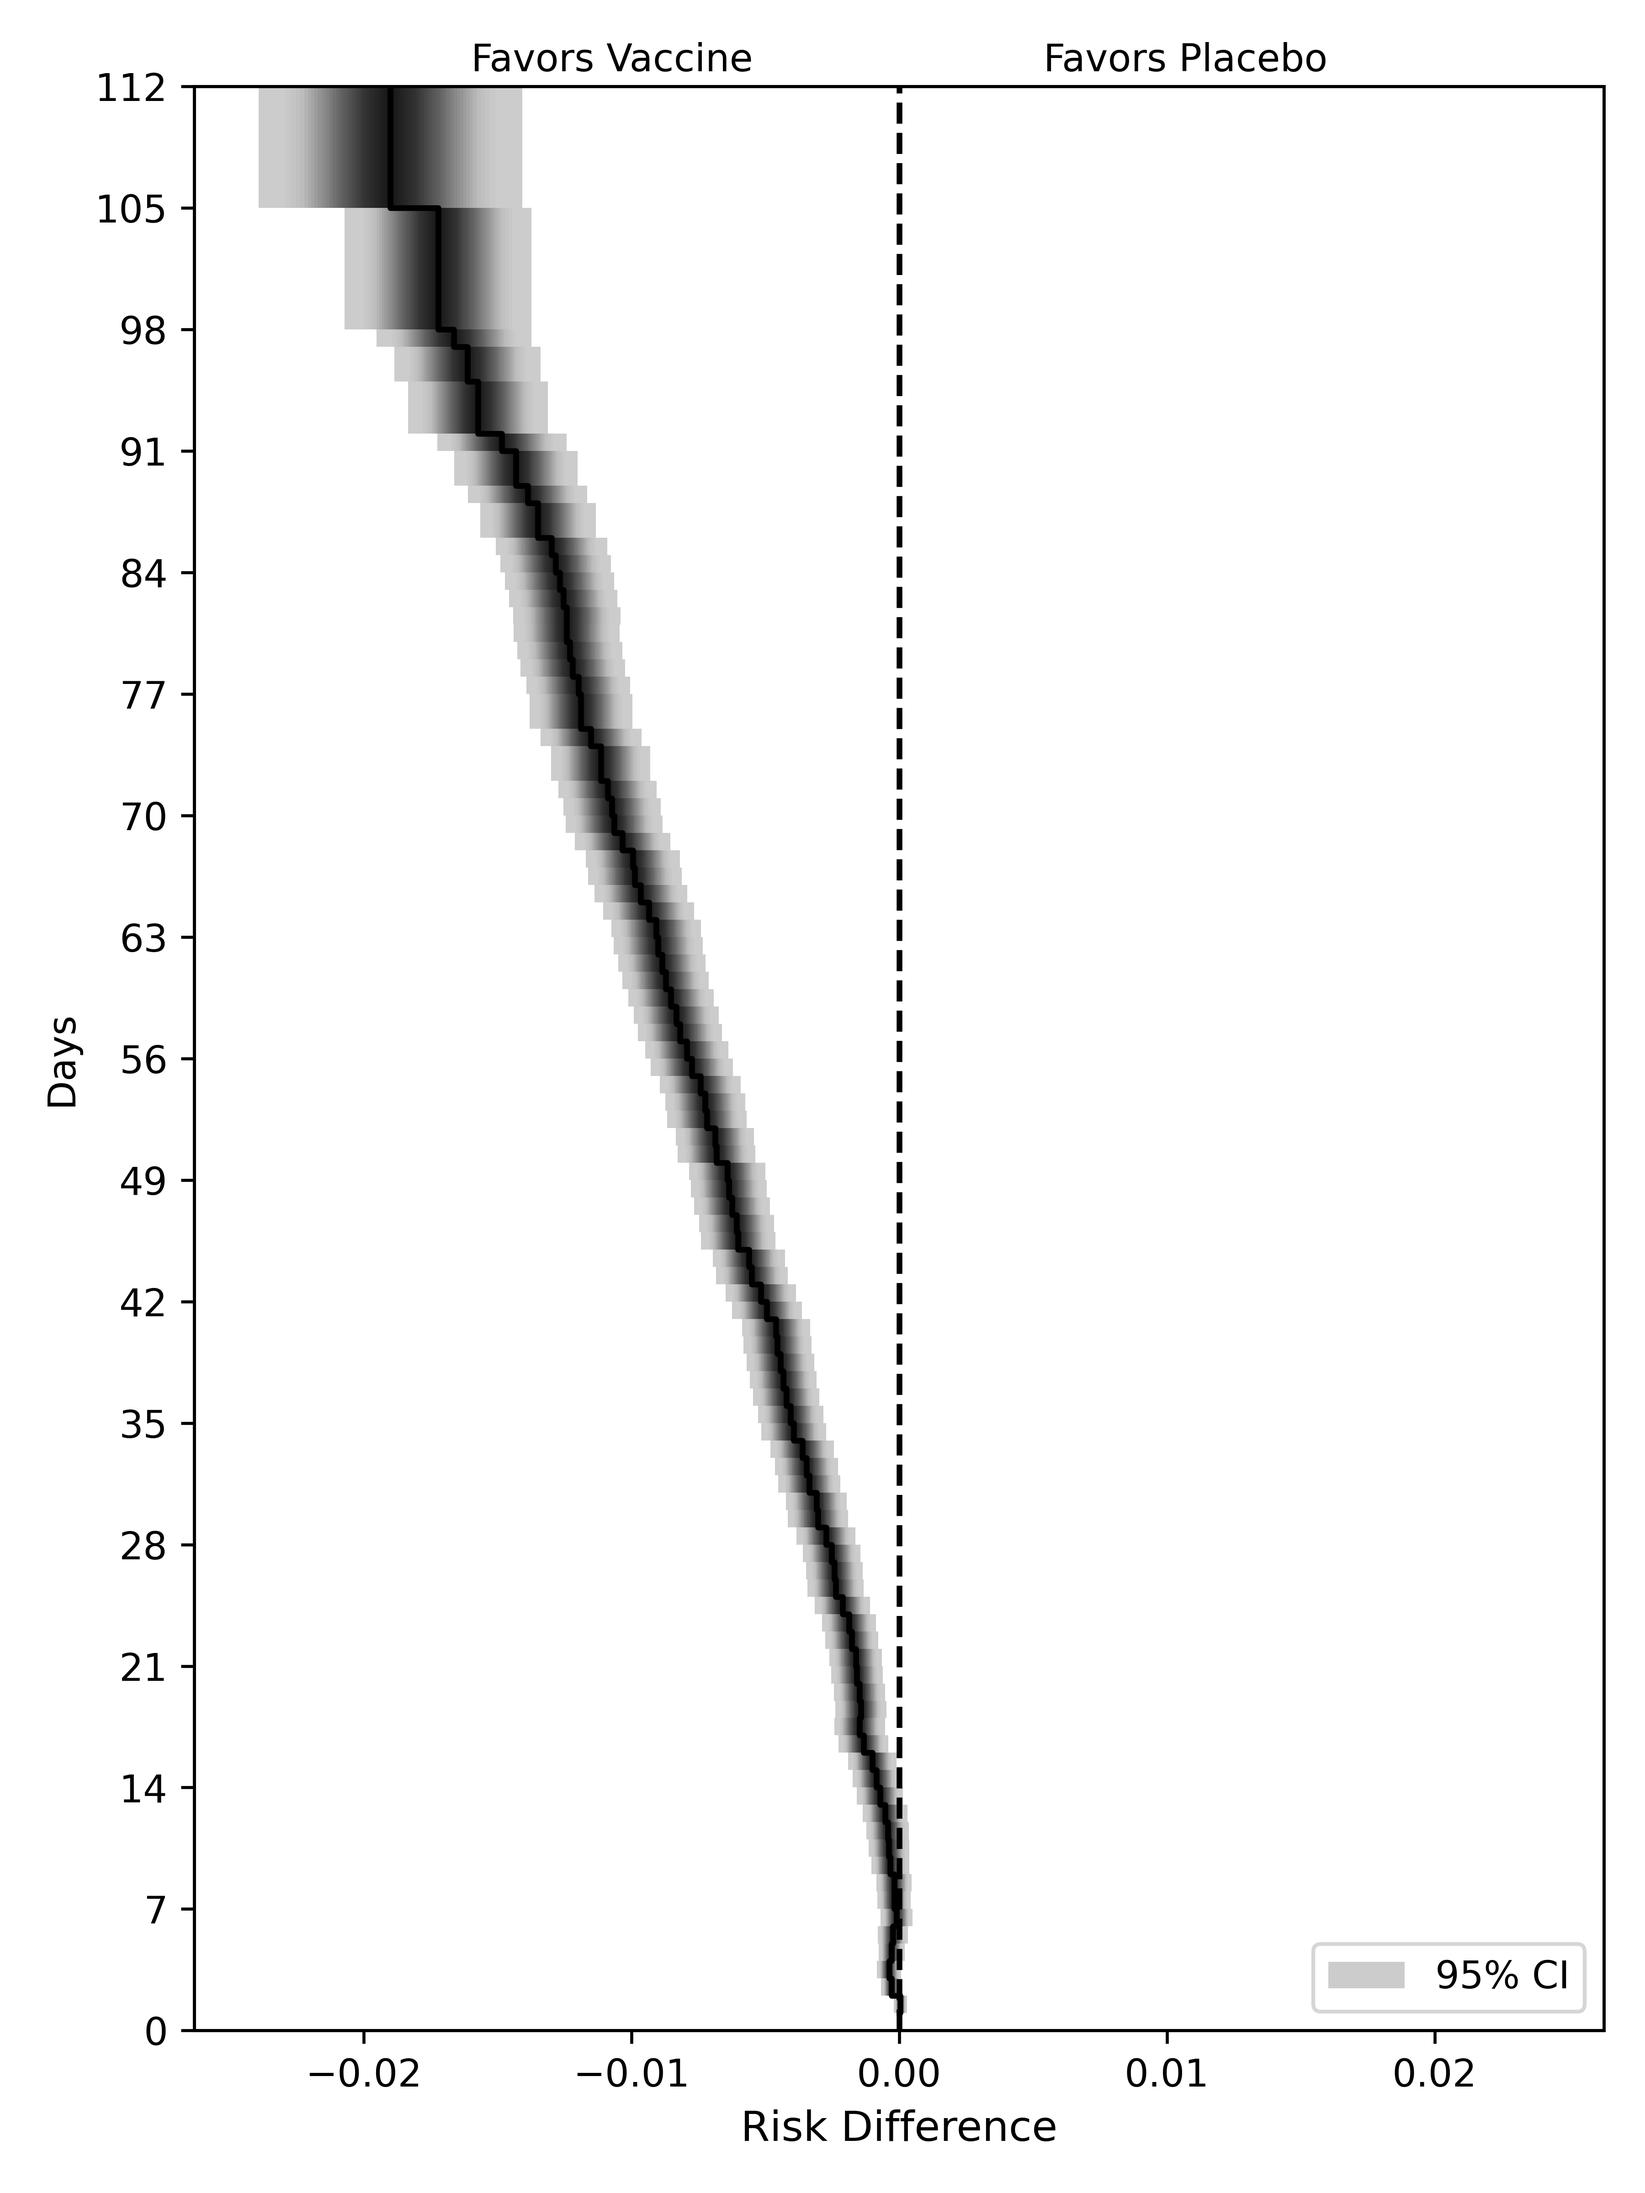
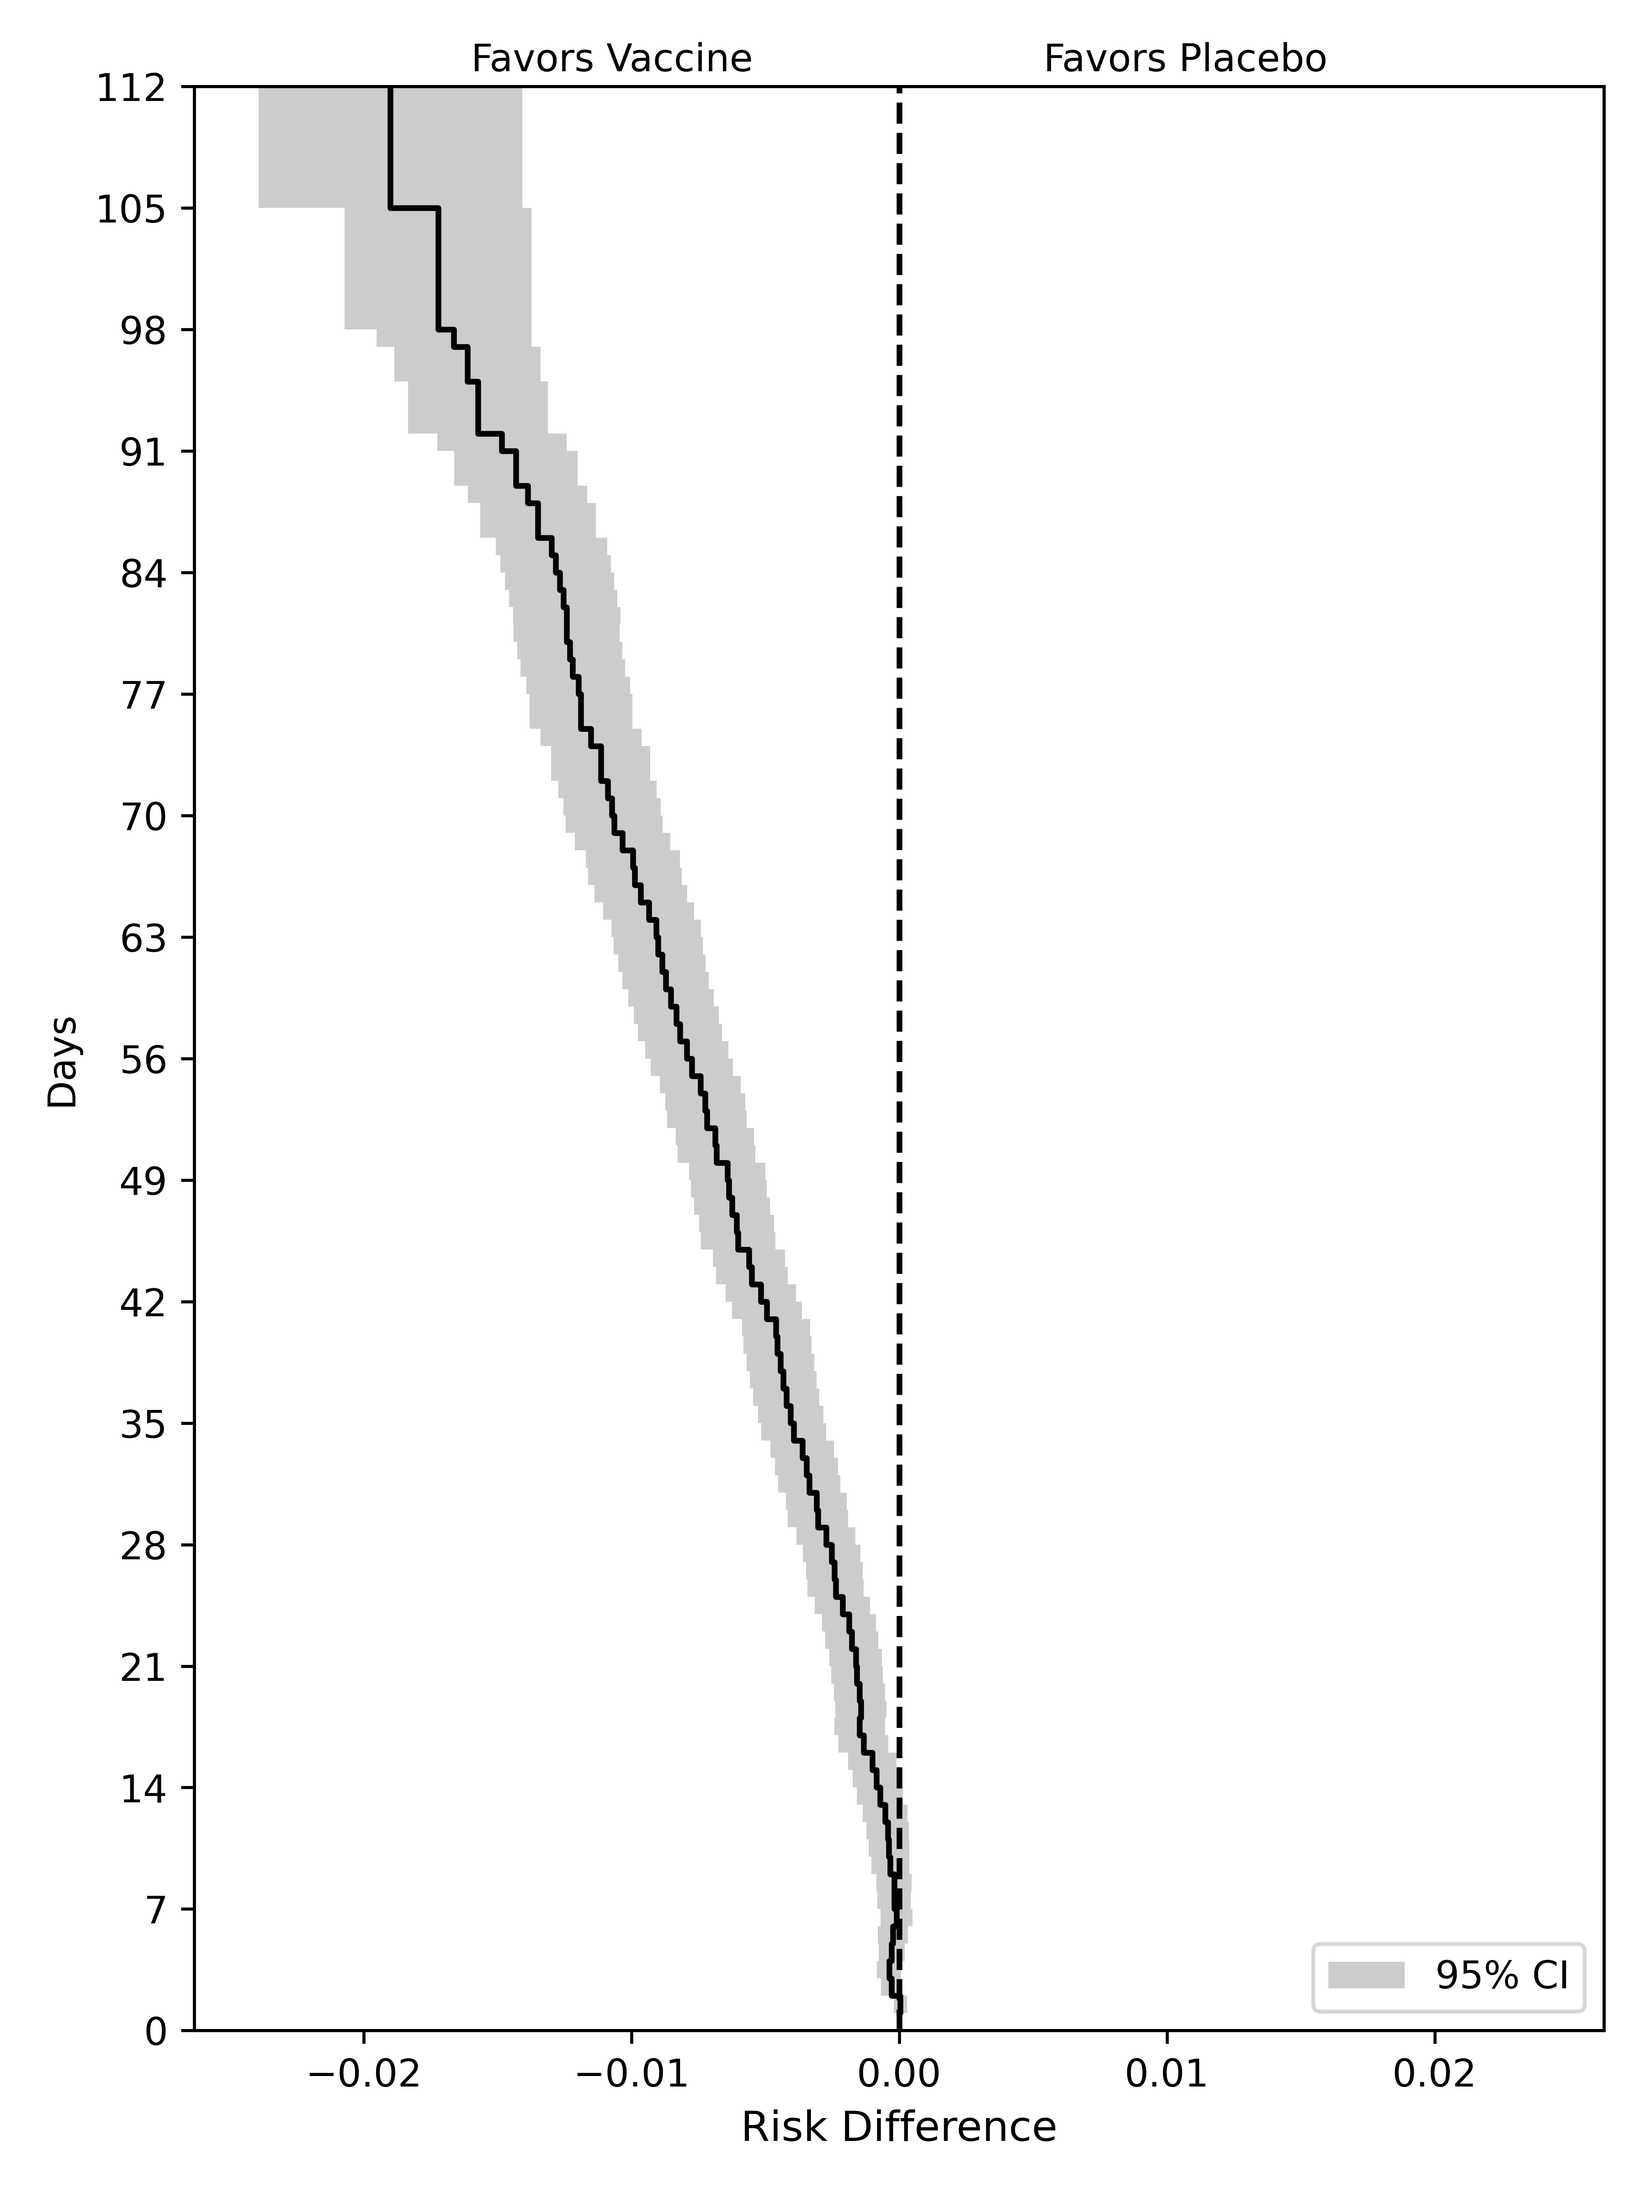
Made make_plots file, working on Callable/generalizability

Changed region(s): [[0.1867, 0.0312, 0.56, 0.9062]]

diff --git a/sierra_plots/sierra_plot_alpha.py b/sierra_plots/sierra_plot_alpha.py
@@ -14,6 +14,14 @@ import seaborn as sns
 
 from typing import Union, Tuple  # Import union, tuple type hinting
 
+
+def normal_ppf_rd(location: pd.Series, scale: pd.Series, query: float) -> pd.Series:
+    # Something up here: maybe has to do with input values?
+
+    n = norm.ppf(location, scale, query)
+    return n
+
+
 ##########################
 def sierra_plot(
     data,
@@ -83,17 +91,9 @@ def sierra_plot(
     # Get standard deviation of each column
     df["sd"] = (data[ucl] - data[xvar]) / 1.96
 
-    # Get colormap to draw with
-    gradient = "gist_yarg"
-    cmap = plt.get_cmap(gradient)
     # loop through as many steps as needed
 
-    # Initialize normal distributions
-    df["norm"] = norm(loc=df[xvar], scale=df["sd"])
-    df["ppf_low"] = df["norm"].apply(lambda x: x.ppf(0.1))
-    df["ppf_high"] = df["norm"].apply(lambda x: x.ppf(0.9))
-
-    # # Functionally not needed, but helps Shaded step function for Risk Difference confidence intervals
+    # # # Functionally not needed, but helps Shaded step function for Risk Difference confidence intervals
     ax.fill_betweenx(
         data[yvar],  # time column (no shift needed here)
         data[ucl],  # upper confidence limit
@@ -104,11 +104,14 @@ def sierra_plot(
         step="post",
     )
 
-    for a in np.arange(0.1, 0.95, 0.01):
-        df[a] = df.apply(lambda x: norm.ppf(loc=x[xvar], scale=x["sd"], q=a), axis=1)
+    for a in np.arange(0.05, 0.5, 0.01):
+        df[a] = df.apply(
+            lambda x: normal_ppf_rd(location=x[xvar], scale=x["sd"], query=a), axis=1
+        )
         df[a] = df[a].fillna(0)
         df[1 - a] = df.apply(
-            lambda x: norm.ppf(loc=x[xvar], scale=x["sd"], q=1 - a), axis=1
+            lambda x: normal_ppf_rd(location=x[xvar], scale=x["sd"], query=(1 - a)),
+            axis=1,
         )
         df[1 - a] = df[1 - a].fillna(0)
         ax.fill_betweenx(
@@ -179,53 +182,3 @@ def sierra_plot(
         },
     )
     return ax
-
-
-##########################
-# Setup data
-# Reading in data
-data = pd.read_csv("data_twister.csv")  # .csv read in and managed using pandas
-
-##########################
-# Example: Difference
-ax = sierra_plot(
-    data,
-    xvar="RD",
-    lcl="RD_LCL",
-    ucl="RD_UCL",
-    yvar="t",
-    treat_labs=["Vaccine", "Placebo"],
-)
-
-# Formatting the axes and labels
-ax.legend(loc="lower right")  # Added legend to the lower right corner of the plot
-ax.set_yticks([i for i in range(0, 113, 7)])  # Sets the y-axes tick marks
-
-plt.tight_layout()  # Sets spacing of the border of the plot
-plt.savefig(
-    "sierra_plot_python.png", format="png", dpi=600
-)  # Saves the generated figure as .png
-plt.show()  # displays the generated image
-
-# ##########################
-# # Example: Ratio
-ax = sierra_plot(
-    data,
-    xvar="RR",
-    lcl="RR_LCL",
-    ucl="RR_UCL",
-    yvar="t",
-    reference_line=1.0,
-    log_scale=True,
-    treat_labs=["Vaccine", "Placebo"],
-)
-
-# Formatting the axes and labels
-ax.legend(loc="lower right")  # Added legend to the lower right corner of the plot
-ax.set_yticks([i for i in range(0, 113, 7)])  # Sets the y-axes tick marks
-ax.set_xticks([0.1, 0.25, 1, 5, 10])  # Sets the x-axes tick marks
-ax.set_xticklabels(["0.10", "0.25", "1", "5", "10"])
-
-plt.tight_layout()  # Sets spacing of the border of the plot
-# plt.savefig("twister_plot_python.png", format='png', dpi=600)  # Saves the generated figure as .png
-plt.show()  # displays the generated image

diff --git a/sierra_plots/make_plots.py b/sierra_plots/make_plots.py
@@ -1,0 +1,53 @@
+import pandas as pd
+import matplotlib.pyplot as plt
+
+from sierra_plot_alpha import sierra_plot
+
+##########################
+# Setup data
+# Reading in data
+data = pd.read_csv("data_twister.csv")  # .csv read in and managed using pandas
+
+##########################
+# Example: Difference
+ax = sierra_plot(
+    data,
+    xvar="RD",
+    lcl="RD_LCL",
+    ucl="RD_UCL",
+    yvar="t",
+    treat_labs=["Vaccine", "Placebo"],
+)
+
+# Formatting the axes and labels
+ax.legend(loc="lower right")  # Added legend to the lower right corner of the plot
+ax.set_yticks([i for i in range(0, 113, 7)])  # Sets the y-axes tick marks
+
+plt.tight_layout()  # Sets spacing of the border of the plot
+plt.savefig(
+    "sierra_plot_python.png", format="png", dpi=600
+)  # Saves the generated figure as .png
+plt.show()  # displays the generated image
+
+# ##########################
+# # Example: Ratio
+ax = sierra_plot(
+    data,
+    xvar="RR",
+    lcl="RR_LCL",
+    ucl="RR_UCL",
+    yvar="t",
+    reference_line=1.0,
+    log_scale=True,
+    treat_labs=["Vaccine", "Placebo"],
+)
+
+# Formatting the axes and labels
+ax.legend(loc="lower right")  # Added legend to the lower right corner of the plot
+ax.set_yticks([i for i in range(0, 113, 7)])  # Sets the y-axes tick marks
+ax.set_xticks([0.1, 0.25, 1, 5, 10])  # Sets the x-axes tick marks
+ax.set_xticklabels(["0.10", "0.25", "1", "5", "10"])
+
+plt.tight_layout()  # Sets spacing of the border of the plot
+# plt.savefig("twister_plot_python.png", format='png', dpi=600)  # Saves the generated figure as .png
+plt.show()  # displays the generated image
